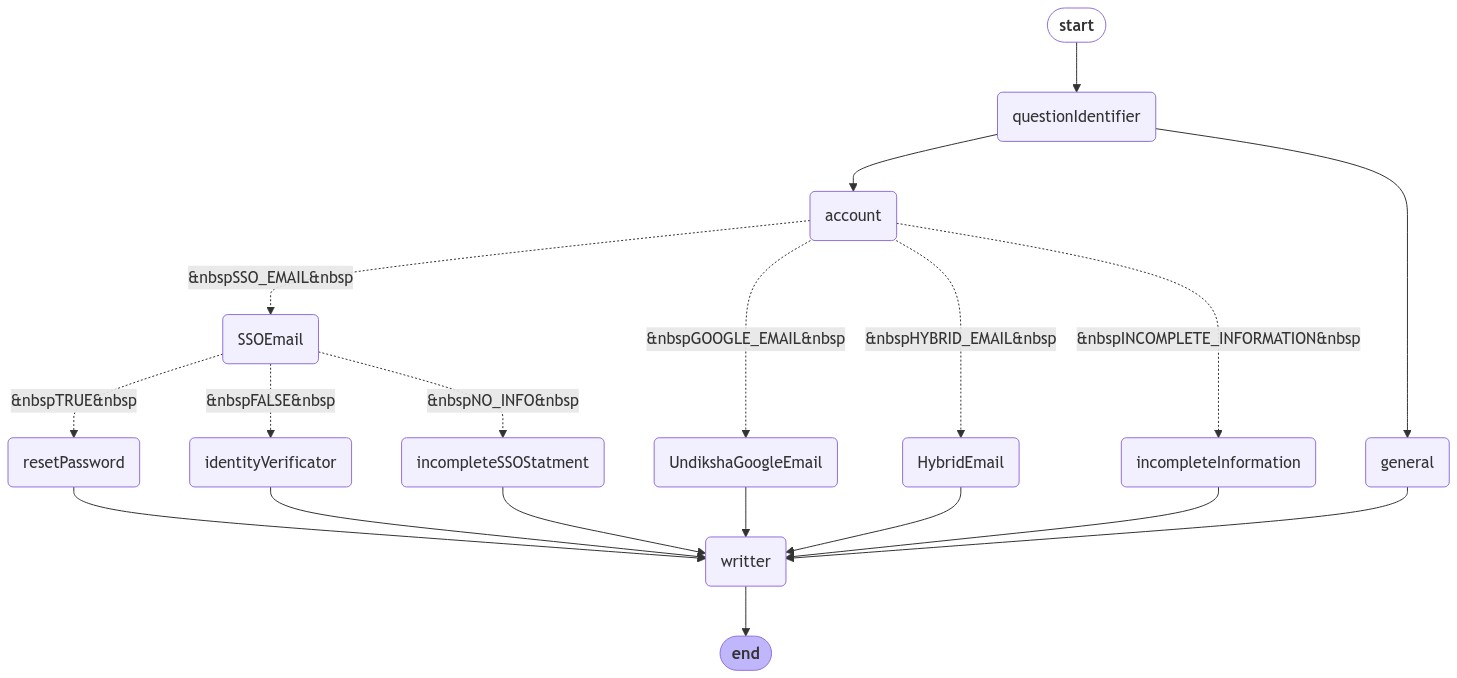
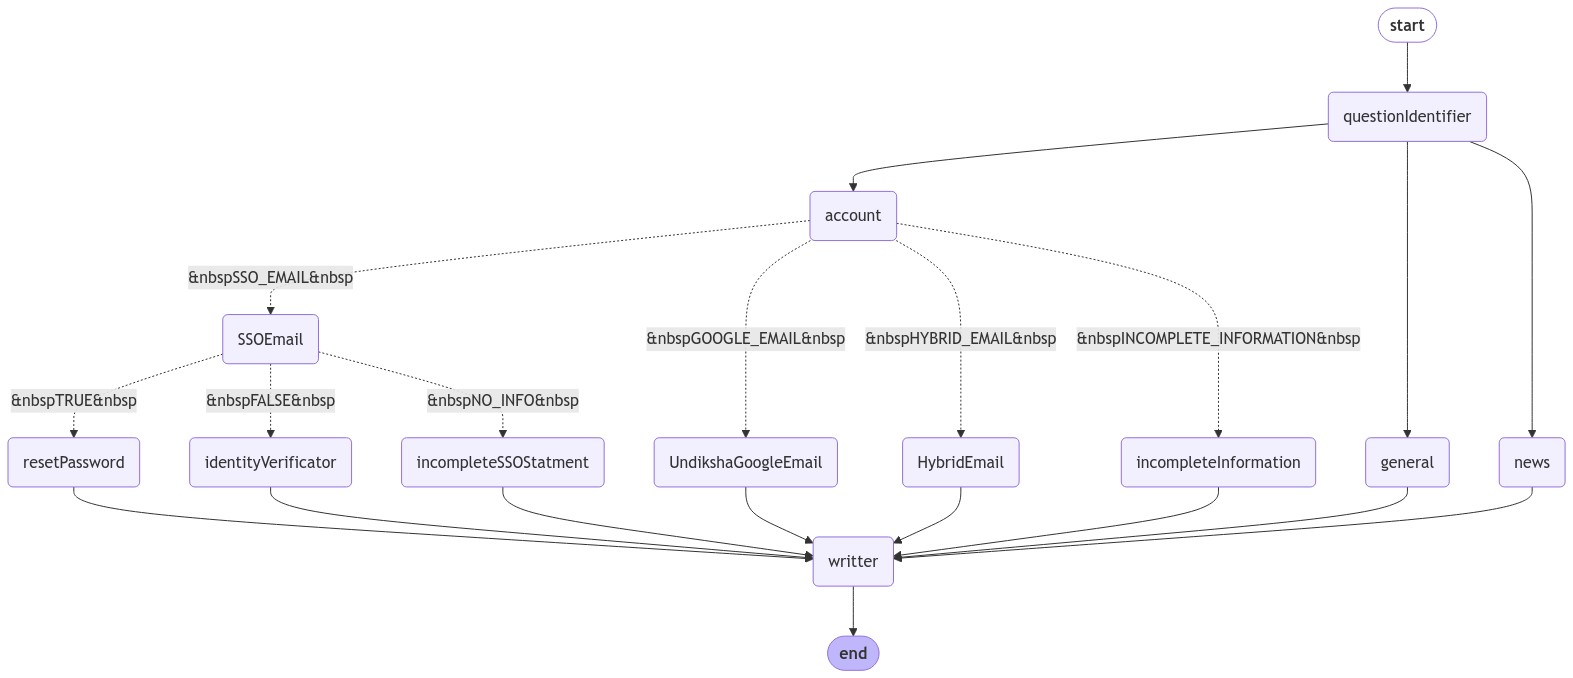
update agent

diff --git a/agents2.py b/agents2.py
@@ -31,6 +31,7 @@ class AgentState(TypedDict):
     incompleteReason : Optional[str] = None
     resetPasswordType : Optional[str] = None
     agentAnswer : Annotated[Sequence[AnswerState], add]
+    activeAgent : None
 
 
 
@@ -155,7 +156,7 @@ def generalAgent(state: AgentState):
     answer = "Informasi umum Undiksha."
     agent = "GENERAL"
 
-    agentOpinion: AnswerState = {
+    agentOpinion = {
         "agent": agent,
         "answer": answer
     }
@@ -166,8 +167,9 @@ def outOfContextAgent(state: AgentState):
     print('--- OUT OF CONTEXT AGENT ---')
 
 def writterAgent(state: AgentState):
-    print(state["agentAnswer"])
-    print('--- WRITTER AGENT ---')
+    if len(state["agentAnswer"]) == 2:
+        print(state["agentAnswer"])
+        print('--- WRITTER AGENT ---')
 
     
 
@@ -182,7 +184,19 @@ def HybridEmailAgent(state: AgentState):
     print('--- HYBRID EMAIL AGENT ---')
 
 def incompleteInformationAgent(state: AgentState):
+
     print('--- INCOMPLETE INFORMATION AGENT ---')
+
+    agent = "INCOMPLETE INFORMATION"
+    answer = state["incompleteReason"]
+
+    agentOpinion = {
+        "agent": agent,
+        "answer": answer
+    }
+
+    return {"agentAnswer": [agentOpinion]}
+
 
 def resetPasswordAgent(state: AgentState):
     print("-- RESET PASSWORD AGENT --")
@@ -195,7 +209,7 @@ def incompleteSSOStatment(state: AgentState):
 
     agent = "INCOMPLETE SSO STATEMENT"
     answer = "ini incomplete"
-    agentOpinion: AnswerState = {
+    agentOpinion = {
         "agent": agent,
         "answer": answer
     }
@@ -290,7 +304,7 @@ def build_graph(question):
     graph.invoke({'question': question})
     get_graph_image(graph)
 
-build_graph("siapa rektor undiksha, reset akun sudiartika@undiksha.ac.id ")
+build_graph("siapa rektor undiksha, reset akun saya, berikan saya berita undiksha")
 
 
 
